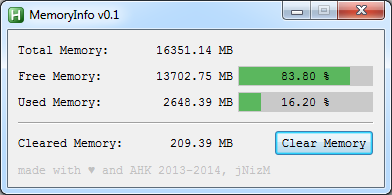
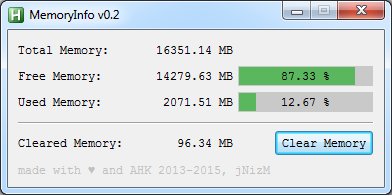
Update to v0.2
- Bug Fixes
- New License

diff --git a/README.md b/README.md
@@ -1,7 +1,7 @@
 # MemoryInfo by jNizM
 Shows info about memory via AutoHotkey
 
-  
+
 ## Features
 * Shows total, free & used memory in MB
 * Shows used memory in percentage %
@@ -12,17 +12,18 @@ Shows info about memory via AutoHotkey
 
 
 ## Info
-* Version: v0.1
+* Version: v0.2
 * URL: [AHK Thread](http://ahkscript.org/boards/viewtopic.php?f=6&t=142)
 
 
 ## Changelog
+* 0.2 | Bug Fixes
 * 0.1 | First Release
 
 
 ## Contributing
 * thanks to AutoHotkey Community
 
-  
+
 ## Copyright and License
-[WTFPL License](LICENSE)
+[Unlicense](LICENSE)
